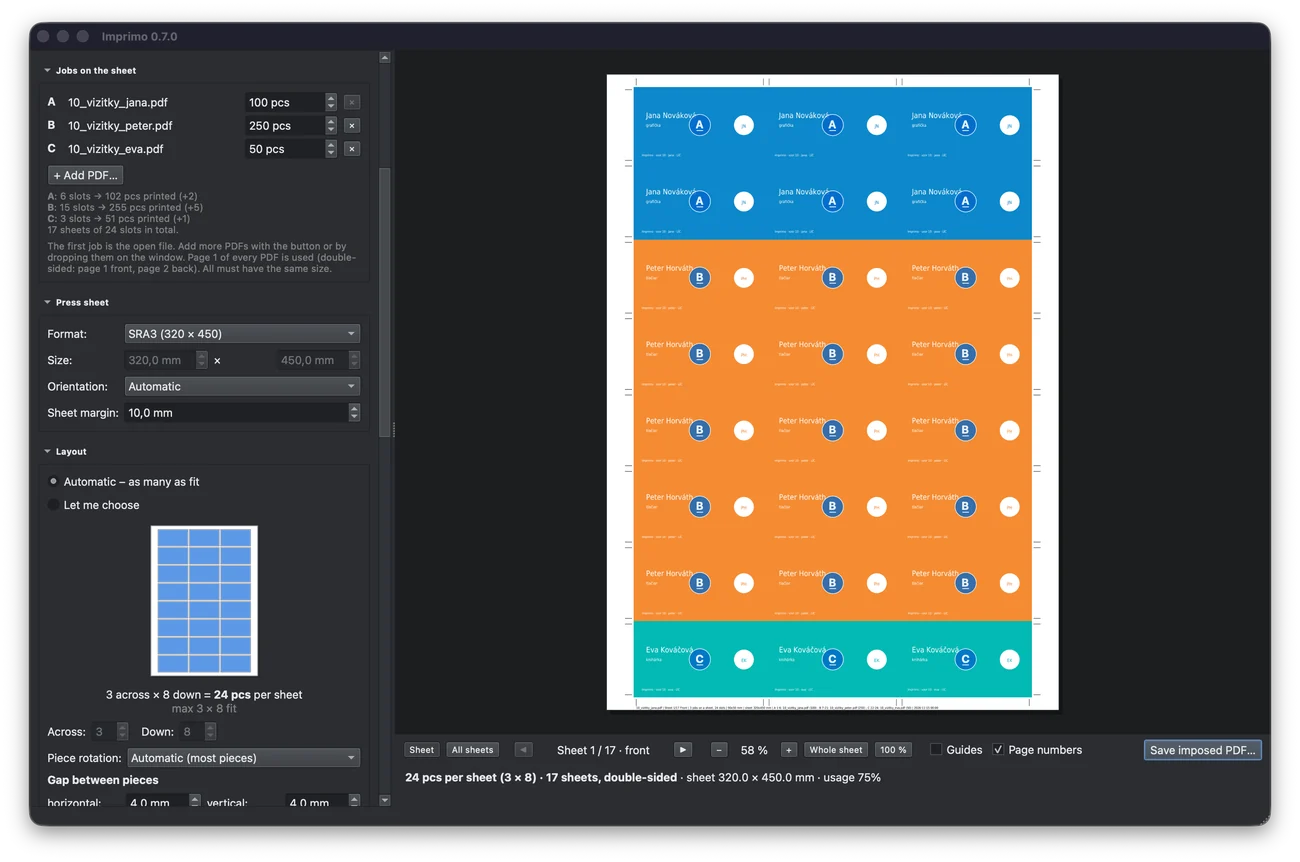
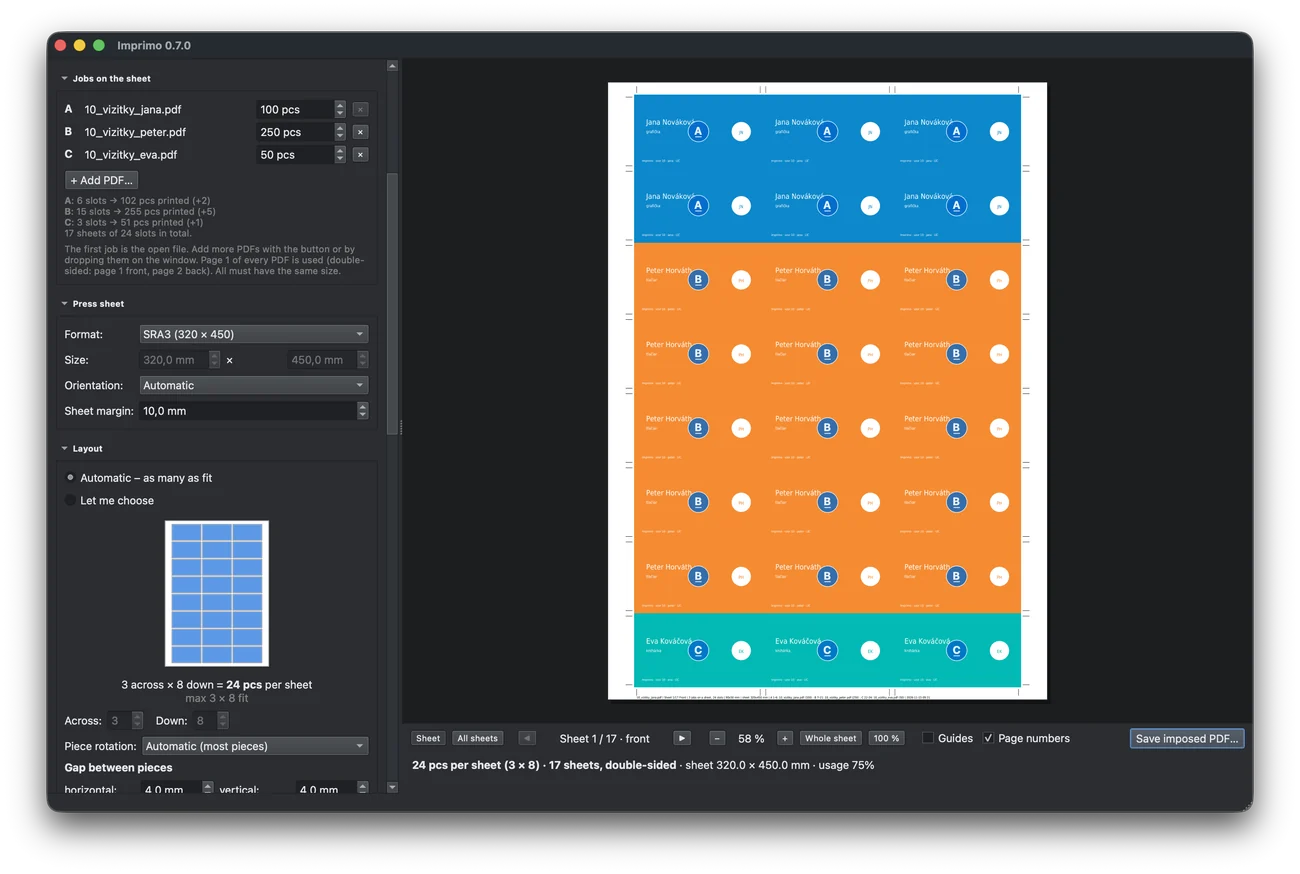
Fix stray job/layer rows appearing as small windows; retake web screenshots
Rebuilding the “Jobs on the sheet” (and layer) rows detached the old rows with
setParent(None) and deleted them only on the next event loop pass. On macOS a
detached row could show up as a small floating window (“C 10…pdf 100 pcs”) and
take the focus. Rows are now removed from the layout, hidden and deleted.

The website's macOS screenshots are retaken: the gang run window had grey
traffic lights because such a stray row had the focus.

Changed region(s): [[0.0, 0.0, 0.9846, 0.9954]]

diff --git a/imprimo/gui.py b/imprimo/gui.py
@@ -1087,6 +1087,15 @@ class LayerRow(QFrame):
         self.check.setText("<br>".join(rows))
 
 
+def _drop_widget(layout, w):
+    """Removes a row from its layout for good. It stays hidden inside the panel until it is
+    deleted – setParent(None) would turn a shown widget into a stray top-level window
+    (on macOS it appears as a small floating window until the next event loop pass)."""
+    layout.removeWidget(w)
+    w.hide()
+    w.deleteLater()
+
+
 def guess_kind(path, spots=()):
     """Layer type from the spot colour names in the PDF, then from the file name."""
     from .spots import kind_of
@@ -1830,8 +1839,7 @@ class MainWindow(QMainWindow):
         if not hasattr(self, "jobs_col"):
             return
         for w in self.job_rows:
-            w.setParent(None)
-            w.deleteLater()
+            _drop_widget(self.jobs_col, w)
         self.job_rows = []
         for i, job in enumerate(self.jobs):
             row = QWidget()
@@ -3072,8 +3080,7 @@ class MainWindow(QMainWindow):
         if not hasattr(self, "layers_col"):
             return
         for row in self.layer_rows:
-            row.setParent(None)
-            row.deleteLater()
+            _drop_widget(self.layers_col, row)
         self.layer_rows = []
         for e in self.layers:
             if e["layer"].kind == "crease":         # shown in the Creasing section
